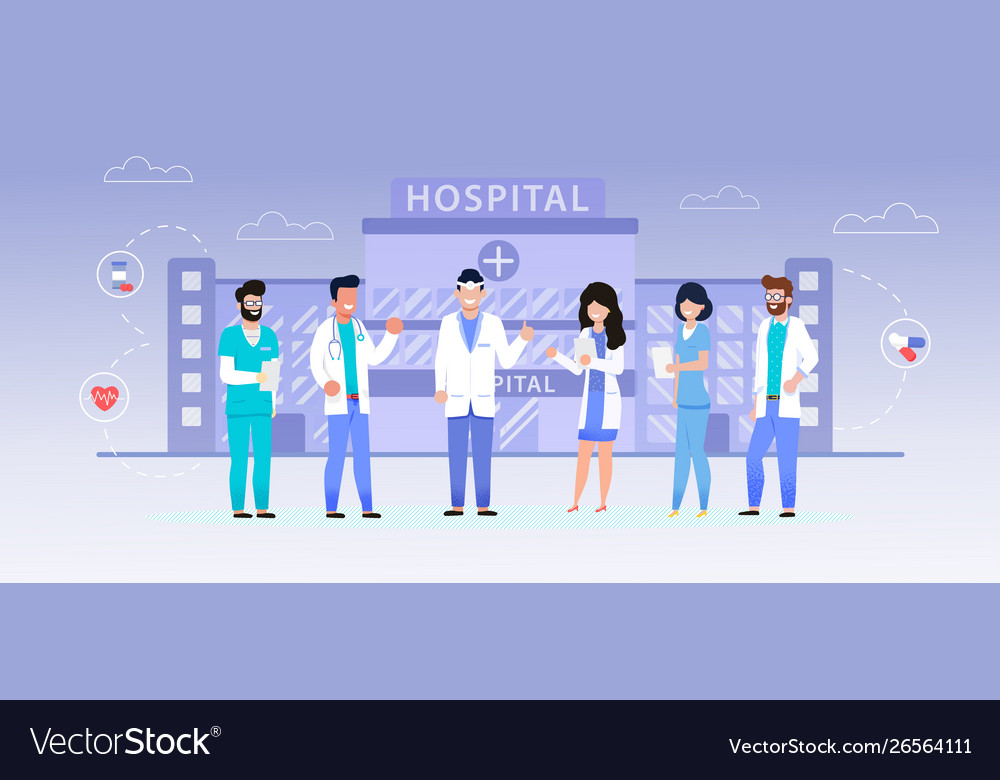
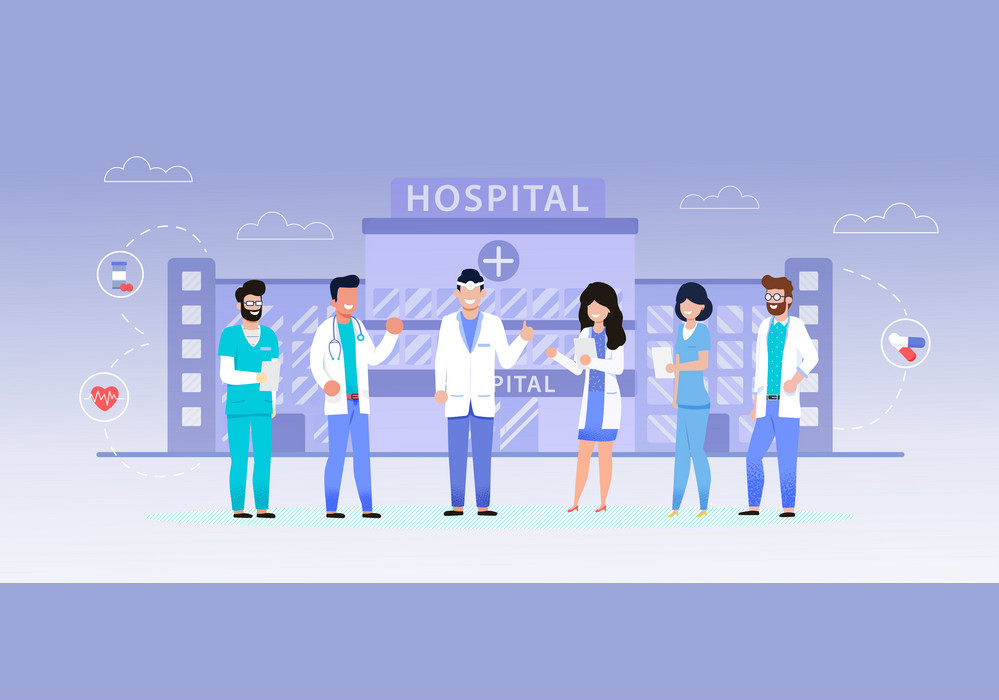
Image croping and transfering css to one file

diff --git a/assets/css/main.css b/assets/css/main.css
@@ -1,6 +1,161 @@
-/* .responsive {
-    width: 60vw;
-    min-height: 20vw;
+html,
+body {
+    min-height: 100%;
+}
+
+html,
+body {
+    max-height: 100%;
+}
+
+body {
+    background-image: url(../26564111.jpg);
+    background-size: cover;
+    background-repeat: no-repeat;
+}
+
+/* svg container */
+.svg-container{
+    padding-left: 0 !important;
+    padding-right: 0 !important;
+}
+
+/* main container */
+.main-container {
+    width: 100vw !important;
+    height: 70vh !important;
+    background-color: rgba(255, 255, 255, 0.801);
+}
+
+object {
+    max-width: 100vw;
+    height: auto;
+}
+
+li {
+    margin: 0px;
+    padding: 0px;
+}
+
+
+.cd-h-timeline__event {
+    margin-top: 2vw;
+    margin-bottom: 2vw;
+}
+
+#branding {
+    background-color: rgba(239, 212, 255, 0.692);
+}
+
+
+.js .cd-h-timeline__navigation {
+    border-style: none;
+
+}
+
+.timeline-container {}
+
+
+:root {
+    --cd-color-1:
+        hsl(0, 0%, 22%);
+    --cd-color-1-h: 0;
+    --cd-color-1-s: 0%;
+    --cd-color-1-l: 22%;
+    --cd-color-2: grey;
+    --cd-color-2-h: 74;
+    --cd-color-2-s: 93%;
+    --cd-color-2-l: 32%;
+    --cd-color-3: none;
+    --cd-color-3-h: 0;
+    --cd-color-3-s: 0%;
+    --cd-color-3-l: 97%;
+    --font-primary: 'Fira Sans', sans-serif;
+    --font-secondary: 'Playfair Display', serif;
+}
+
+.cd-h-timeline__line {
+    position: fixed;
+}
+
+.height {
+    height: 31vw;
+}
+
+ol {
+    margin-left: 0;
+    margin-bottom: 3vw;
+}
+
+h2 {
+    font-family: fredericka-the-greatest, serif;
+    font-weight: 200;
+    font-style: normal;
+    font-size: 200px;
+    max-width: 60vw;
+    color: DimGray;
+    z-index: 1;
+}
+
+/* css for model */
+
+
+.modal {
+    display: none;
+    /* Hidden by default */
+    position: fixed;
+    /* Stay in place */
+    z-index: 1;
+    /* Sit on top */
+    padding-top: 100px;
+    /* Location of the box */
+    left: 0;
+    top: 0;
+    width: 100%;
+    /* Full width */
+    height: 100%;
+    /* Full height */
+    overflow: auto;
+    /* Enable scroll if needed */
+    background-color: rgb(0, 0, 0);
+    /* Fallback color */
+    background-color: rgba(0, 0, 0, 0.4);
+    /* Black w/ opacity */
+}
+
+/* Modal Content */
+.modal-content {
+    background-color: #fefefe;
+    margin: auto;
+    padding: 20px;
+    border: 1px solid #888;
+    width: 80%;
+}
+
+/* The Close Button */
+.close {
+    color: #aaaaaa;
+    float: right;
+    font-size: 28px;
+    font-weight: bold;
+}
+
+.close:hover,
+.close:focus {
+    color: #000;
+    text-decoration: none;
+    cursor: pointer;
+}
+
+.position {
+    position: absolute;
+    bottom: 10%;
+}
+
+/* @media all and (max-width: 1800px) and (min-width: 1000px) {
+    .margin-top {
+        margin-top: 4vw;
+    }
 } */
 
 .header-responsive {
